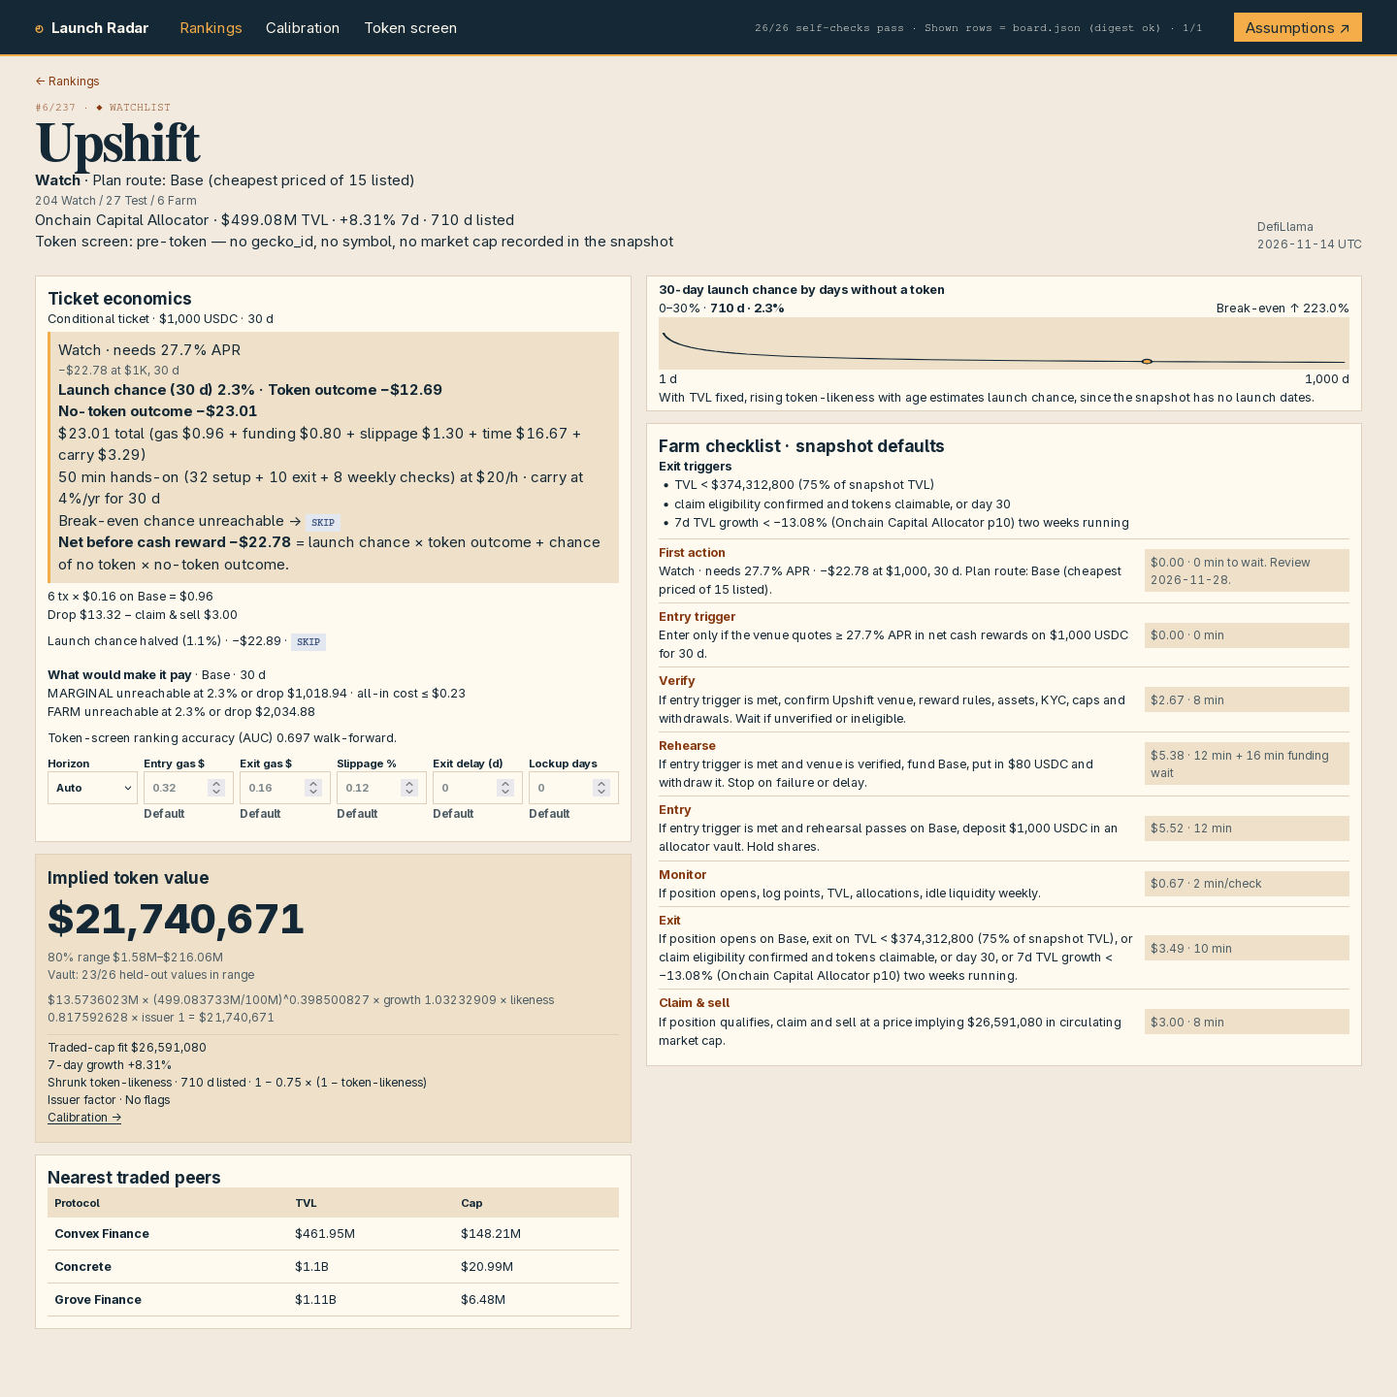
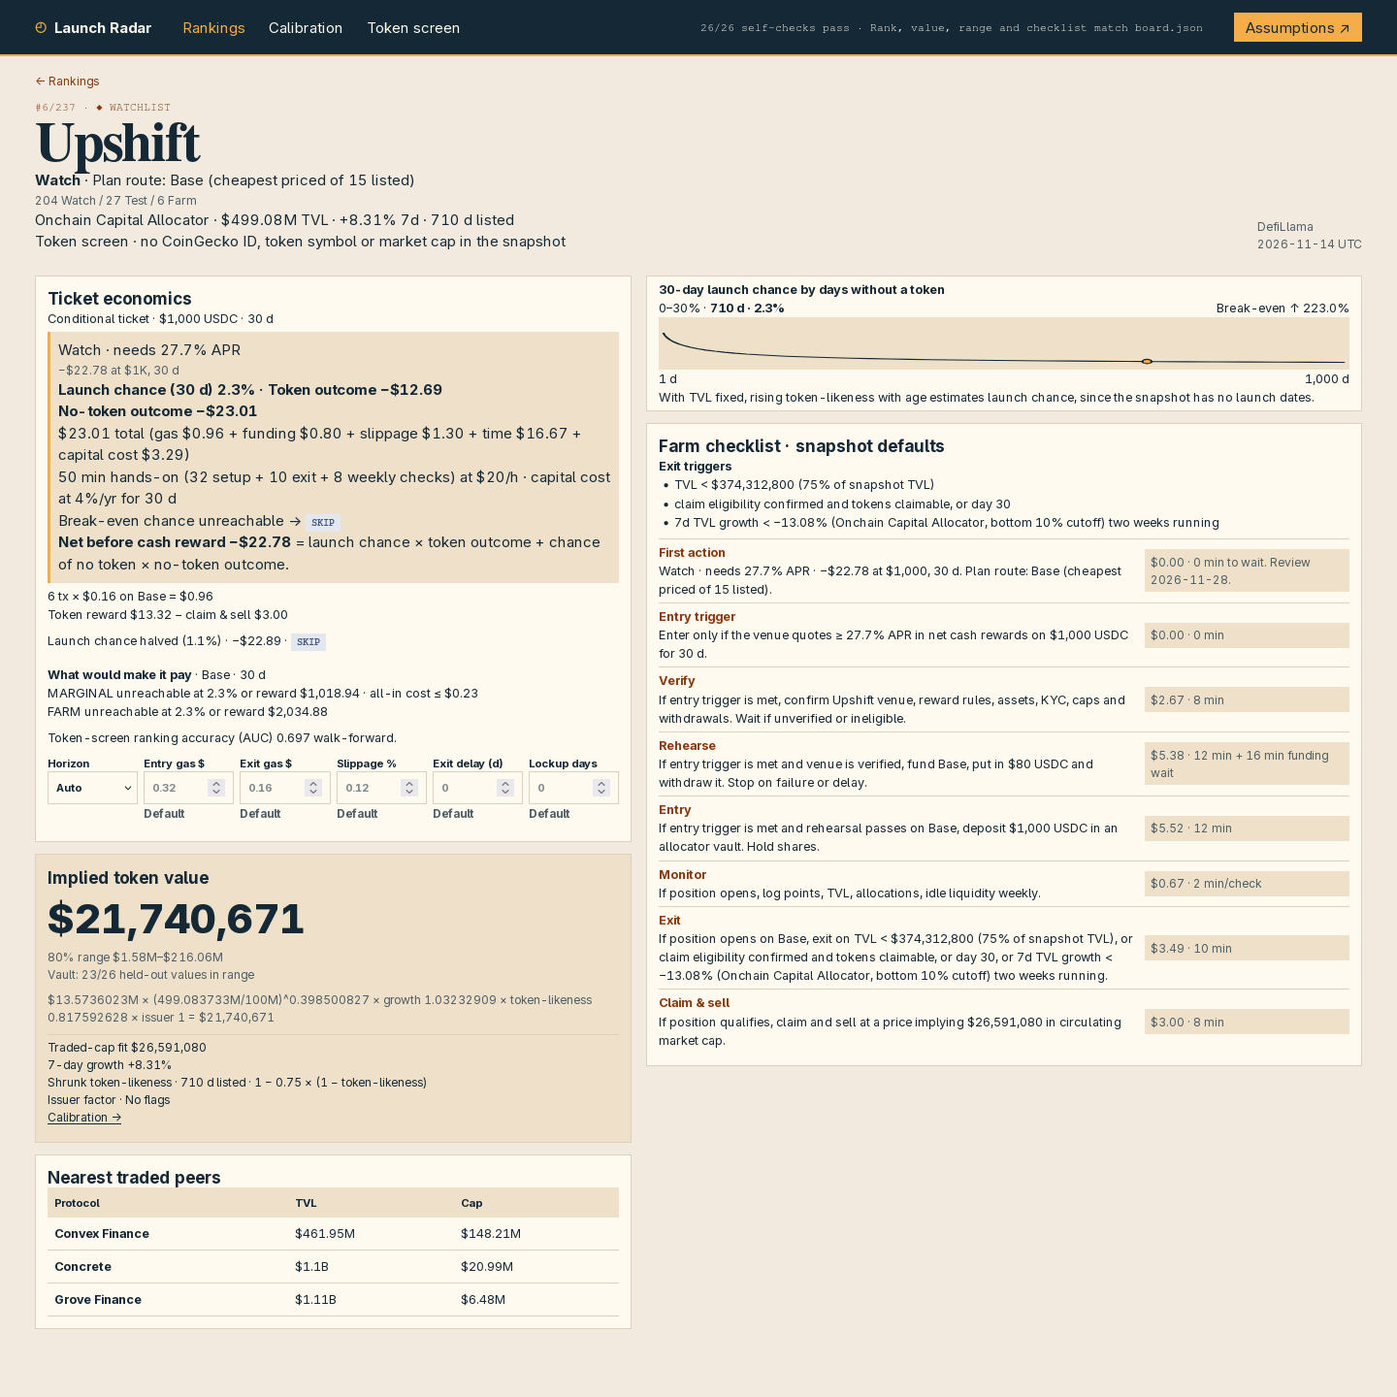
Plain-language labels, grid key and exact integrity strip

diff --git a/dashboard/app.js b/dashboard/app.js
@@ -6,8 +6,9 @@ const html=(xs,fn)=>xs.map(fn).join(""),view=$("#view"),check=$("#checks"),
 	text=sel=>$(sel).textContent,put=(sel,markup)=>$(sel).innerHTML=markup,
 	status=id=>`<small id=${id} role=status></small>`,
 	results=selfChecks(model,snap,boardDigest),
-	passed=count(results,c=>c.pass),allPass=passed===results.length,selfCount=`${passed}/${results.length}`,
+	passed=count(results,c=>c.pass),allPass=passed===results.length,selfLine=`${passed}/${results.length} self-checks pass`,
 	signed=s=>s.replace(/(^|[\s$(,])-(?=\$?\d)/g,"$1−"),
+	plain=s=>signed(s).replace(/ p10\)(?= two weeks)/g,", bottom 10% cutoff)").replace(" + carry "," + capital cost "),
 	money=n=>signed(costUsd(n)),short=new Intl.NumberFormat("en-US",{style:"currency",currency:"USD",
 		notation:"compact",maximumFractionDigits:2}).format,usd=whole
 const dash="—",mult=n=>n==null?dash:n.toFixed(3)+"×",
@@ -15,14 +16,15 @@ const dash="—",mult=n=>n==null?dash:n.toFixed(3)+"×",
 	net=farmNet,net2=n=>net(+n.toFixed(2)),
 	esc=value=>String(value??"").replace(/[&<>"']/g,c=>({"&":"&amp;","<":"&lt;",">":"&gt;",'"':"&quot;","'":"&#39;"})[c])
 const {rows:rs,recs,counts:ns,verdicts,value,odds,assumptions:setup,board:{rows:board}}=model,
-	hashOk=digest(board)===boardDigest&&digest(manifest)===digest(exportManifest(board)),
+	hashOk=digest(board)===boardDigest&&same(manifest,exportManifest(board)),
+	watchExported=count(snap.watchlist,slug=>manifest?.some(([,s])=>s===slug)),
 	{parameters:{horizons,riskFreeRate,hourlyUsd}}=setup,
 	auc=k=>odds.validation[k].auc?.toFixed(3)??dash
 const aucLabel="Token-screen ranking accuracy (AUC)",
 	aucLine=`${aucLabel} ${auc("walk")} walk-forward`,
 	{headline,ablation,candidates,form,weight,ranges:{label,hits,n:bandN,coverage}}=value,
-	bandName=label==null?"Uncalibrated range":`${bandPct}% range`,
-	groups=[["traded","traded"],["setAside","set aside"],["recorded","token, no cap"],["ranked","ranked"]],
+	bandName=bandN?`${bandPct}% range`:"Uncalibrated range",
+	groups={traded:"traded",setAside:"set aside",recorded:"token, no cap",ranked:"ranked"},
 	choices=items=>["",...unique(items).sort()]
 const grades=keys(verdicts),actions=actionCounts(verdicts),
 	stressCases=[["doubleCost","2× cost"],["halfShare","Reward share halved"]],
@@ -78,8 +80,8 @@ const valueStats=`<p class=nested>Form chosen inside training only</p>
 <p class=coverage>${bandN?`${bandName} · Family holdout coverage ${label}% (${hits}/${bandN})`:"Range coverage unavailable"}</p>`
 const dropPairs=entries(outerTerms).map(([k,label])=>[label,...schemes.map(s=>mult(ablation[k][s].miss))]),
 	dropLine=`<p class=drop>Held out without · ${dropPairs.map(([label,...miss])=>label+" "+miss.join("/")).join(" · ")}</p>`
-const tokenLinks=(st,separator="")=>groups.map(([k,lbl])=>
-	`<a href="${href("tokens",st,k)}"${st.route==="tokens"&&st.slug===k?' aria-current="page"':""}><b>${ns[k]}</b> ${lbl}</a>`).join(separator),
+const tokenLinks=(st,separator="")=>entries(groups).map(([k,label])=>
+	`<a href="${href("tokens",st,k)}"${st.route==="tokens"&&st.slug===k?" aria-current=page":""}><b>${ns[k]}</b> ${label}</a>`).join(separator),
 	searchBox=st=>`<label>Search<input id=search type=search value="${esc(st.q)}" autocomplete=off></label>`,
 	matches=(p,q)=>`${p.name} ${p.slug}`.toLowerCase().includes(q.trim().toLowerCase())
 const kpis=st=>`<section class=kpis>
@@ -87,7 +89,7 @@ ${card("Snapshot",`<strong>${ns.total}</strong>
 <div class=groups id=token-groups></div>`)}
 ${card(missTitle,valueStats+dropLine+calLink(st))}
 ${card(aucLabel,`<div class=readings>${html([["loo","Leave-one-out"],["walk",outerTests.walk]],([k,lbl])=>
-	`<div><strong>${auc(k)}</strong><span>${lbl}</span></div>`)}</div><p>TVL and listing age vs traded peers`)}
+	`<div><strong>${auc(k)}</strong><span>${lbl}</span></div>`)}</div><p>Token-likeness uses TVL and listing age`)}
 ${card("First actions",`<b id=cover-counts>${actions}</b><p>Floor ${short(snap.floor_usd)}`)}</section>`
 const option=(v,lbl,selected)=>`<option value="${esc(v)}"${selected?" selected":""}>${esc(lbl)}`,
 	select=(lbl,k,opts)=>`<label>${lbl}<select name=${k}>${opts}</select></label>`,
@@ -96,21 +98,21 @@ const option=(v,lbl,selected)=>`<option value="${esc(v)}"${selected?" selected":
 function plans(st,rows){
 	const best=rows.filter(p=>p.plan.capital).sort((a,b)=>b.plan.net-a.plan.net).slice(0,5)
 	return inset(`Top funded plans <small id=rail-counts>${actions}</small>`,
-		(best.length?html(best,p=>{
+		html(best,p=>{
 			const f=p.plan
 			return`<div><b class=pos>${net(f.net)} net</b>${pLink(p,st)}
 <small class=action>${firstAction(f)}</small><small class=plan-route>${esc(f.route)}</small>
 <small class=plan-time>${f.mins} min hands-on</small><small class=plan-cost>${money(f.cost)} total cost</small></div>`
-		}):"<p>No funded plans in these results.")," plans")
+		})||"<p>No funded plans."," plans")
 }
 const boardView=st=>`${intro("Pre-token rankings","30–365 d farms")}
-<div class=integrity role=group aria-label=Integrity></div>
+<div class=integrity role=group aria-label=Checks></div>
 ${kpis(st)}
 <div class=board><section class=panel>
-<div class=bar><h2>Protocols</h2>${status("compare-count")}${status("shown")}</div>
+<div class=bar><h2>Protocols</h2><small class=grid-key>Amber bar shows value range · Tick shows estimate · <b class=watch>◆</b> Watchlist</small>${status("compare-count")}${status("shown")}</div>
 <div class=filters>${searchBox(st)}
 ${html(filters,spec=>filter(spec,st))}
-<small class=chain-note>Listed on = chains in the snapshot; plan route = cheapest priced chain among them</small></div>
+<small class=chain-note>Plan route uses the cheapest priced listed chain.</small></div>
 <div id=active-filters></div><div id=compare></div><div id=results></div>
 </section><aside class=rail id=plans></aside></div>`
 function filtered({scope,family,chain,verdict,flag,tvl,q,sort,dir}){
@@ -127,10 +129,11 @@ function filtered({scope,family,chain,verdict,flag,tvl,q,sort,dir}){
 const valRange=r=>`${bandName} ${r[bandPct].map(short).join("–")}`,
 	ends=rs.flatMap(({score,ranges})=>[score,...ranges[bandPct]]),
 	logMin=log(min(...ends)),logSpan=log(max(...ends))-logMin||1,
-	barX=n=>1+40*(log(n)-logMin)/logSpan
+	barX=n=>1+40*(log(n)-logMin)/logSpan,
+	clipped=r=>r.growth!==(r.change_7d??0)
 function equation(r,format){
 	const [base,tvl,slope,...terms]=r.equation
-	return`<small class=equation>$${base}M × (${tvl}M/${refM}M)^${slope}${html(terms,([label,n])=>` × ${label} ${n}`)} = ${format(r.score)}</small>`
+	return`<small class=equation>$${base}M × (${tvl}M/${refM}M)^${slope}${html(terms,([label,n])=>` × ${label} ${n}${label==="growth"&&clipped(r)?" (clipped)":""}`)} = ${format(r.score)}</small>`
 }
 function rankRow(r,st){
 	const {slug,score,tokenOdds,ranges,rank,plan:fp,watchlist,tvl_usd,change_7d}=r,
@@ -149,23 +152,22 @@ function exported(rank,slug,value,verdict,format){
 	const [n,s,v,a]=manifest?.[rank-1]??[]
 	return n===rank&&s===slug&&format(v)===value&&a===verdict
 }
-const rowProof=(hits,total,pass)=>!total?"No rows to verify":
-	`${pass?"Shown rows = board.json (digest ok)":"Export check failed"} · ${hits}/${total}`
 function rowCheck(rows,st){
-	const trs=$$("#results tbody tr"),
-		total=rows.length,sorted=trs.length===total&&$(`[aria-sort=${ariaSort(st)}] #sort-${st.sort}`)
-			&&trs.every((tr,i)=>tr.dataset.slug===rows[i].slug)
-	const shown=count(trs,tr=>{
-		const [rank,,value,odds]=tr.cells,n=+rank.textContent,p=rs[n-1].plan,cell=tr.lastElementChild
-		return exported(n,tr.dataset.slug,value.firstElementChild.textContent,tr.querySelector(".badge")?.textContent,short)
+	const trs=$$("#results tbody tr"),total=rows.length
+	const shown=count(trs,(tr,i)=>{
+		const [rank,,value,odds]=tr.cells,n=+rank.textContent,{slug}=tr.dataset,cell=tr.lastElementChild,r=rows[i]
+		if(slug!==r?.slug) return false
+		const p=r.plan
+		return exported(n,slug,value.firstElementChild.textContent,tr.querySelector(".badge")?.textContent,short)
 			&&odds.textContent===pct(board[n-1].token_odds,1)
 			&&(p.trial?cell.innerHTML===watch(p.trial):cell.querySelector("b").textContent===net(p.net))
 	})
-	const pass=!!(hashOk&&sorted&&shown===total&&text("#cover-counts")===text("#rail-counts"))
+	const pass=hashOk&&shown===total&&trs.length===total&&$(`#sort-${st.sort}`)?.parentNode.ariaSort===ariaSort(st)
+		&&text("#cover-counts")===text("#rail-counts")
 	put(".integrity",html([
-		[total?pass:null,rowProof(shown,total,pass)],
-		[ns.watchCovered===ns.watchTotal,`Export watchlist ${ns.watchCovered}/${ns.watchTotal}`],
-		[allPass,selfCount+" checks"]
+		[total?pass:null,pass?`${shown}/${total} ranks and values match board.json`:total?"Row check failed":"No rows to verify"],
+		[hashOk&&watchExported===ns.watchTotal,`${watchExported}/${ns.watchTotal} watchlist rows exported`],
+		[allPass,selfLine]
 	],([ok,lbl])=>`<span class=chip data-pass=${ok}>${ok==null?"":ok?"✓ ":"✗ "}${lbl}</span>`))
 }
 function draw(st){
@@ -196,12 +198,12 @@ function compare(st){
 	const rows=[...picked].map(rank=>rs[rank-1]),size=rows.length
 	$("#compare-count").textContent=`Compare ${size}/3`
 	put("#compare",size?facts(["Compare",...rows.map(r=>pLink(r,st)+pick(r))],[
-		[cols.value[0],...rows.map(r=>usd(r.score))],
-		["First action",...rows.map(r=>firstAction(r.plan))],
-		[cols.verdict[0],...rows.map(r=>badge(r.plan.verdict))],
-		[netTitle,...rows.map(({plan:p})=>p.trial?watch(p.trial):net(p.net))],
-		["Time / cost",...rows.map(({plan:p})=>p.trial?dash:`${p.mins} min hands-on · ${money(p.cost)}`)]
-	]):"")
+		[cols.value[0],r=>usd(r.score)],
+		["First action",r=>firstAction(r.plan)],
+		[cols.verdict[0],r=>badge(r.plan.verdict)],
+		[netTitle,({plan:p})=>p.trial?watch(p.trial):net(p.net)],
+		["Time / cost",({plan:p})=>p.trial?dash:`${p.mins} min hands-on · ${money(p.cost)}`]
+	].map(([label,read])=>[label,...rows.map(read)])):"")
 	for(const box of $$("input[name=compare]")){
 		box.checked=picked.has(+box.value)
 		box.disabled=size===3&&!box.checked
@@ -209,7 +211,7 @@ function compare(st){
 }
 function sources(r,st){
 	return`<div class=sources><p>Traded-cap fit ${usd(r.launchCap)}
-<p>7-day growth ${chg(r.change_7d)}${r.growth!==r.change_7d?` (uses ${chg(r.growth)})`:""}
+<p>7-day growth ${chg(r.change_7d)}${clipped(r)?` (uses ${chg(r.growth)})`:""}
 <p>${forms[form]} · ${r.ageDays==null?"median age":days(r)+" d listed"}${form==="shrink"?` · 1 − ${weight} × (1 − token-likeness)`:""}
 <p>Issuer factor · ${r.flags.map(esc).join(" · ")||"No flags"}
 <p>${calLink(st)}</div>`
@@ -226,19 +228,19 @@ function flows(fp,quote,action,edited){
 		{chain,tx,quote:base}=fp,name=esc(chain.name),gasLabel=quote.entryGas===base.entryGas&&quote.exitGas===base.exitGas
 			?`${tx} tx × ${money(chain.gas)}`:"Quoted gas",
 		half=priceFarm(fp,capital,{quote,horizon,q:q/2}),pay=targetsFor(result,quote),
-		[marginal,farm]=pay.targets.map(t=>`${needs(t.odds,q)} or drop ${targetMoney(t.drop)}`)
+		[marginal,farm]=pay.targets.map(t=>`${needs(t.odds,q)} or reward ${targetMoney(t.drop)}`)
 	return`${edited?`<p class=quote-action>With edited inputs · ${actionLine(action)}`:""}
 ${trial?`<p class=conditional>Conditional ticket · ${esc(fp.ticketFor(capital))} · ${horizon} d`:""}
 <div class=decision>
 ${trial?`<div class=watch-terms>${watch(trial)}</div>`:""}
 <p><b>Launch chance (${horizon} d) ${chance(q)} · Token outcome ${net2(tokenNet)}</b>
 <p><b>No-token outcome ${net2(noToken)}</b>
-<p>${farmCost(result)}
-<p>${farmTime(result)} at ${usd(hourlyUsd)}/h · carry at ${pct(riskFreeRate,0)}/yr for ${hold} d
+<p>${plain(farmCost(result))}
+<p>${farmTime(result)} at ${usd(hourlyUsd)}/h · capital cost at ${pct(riskFreeRate,0)}/yr for ${hold} d
 <p>Break-even chance ${breakEven(pStar)} → ${badge(verdict)}
 <p><b>${trial?"Net before cash reward":netTitle} ${net2(gain)}</b> = launch chance × token outcome + chance of no token × no-token outcome.</div>
 <p class=gas>${gasLabel} on ${name} = ${money(gas)}
-<p>Drop ${money(drop)} − claim &amp; sell ${money(claimCost)}
+<p>Token reward ${money(drop)} − claim &amp; sell ${money(claimCost)}
 <p class=half-q>Launch chance halved (${chance(q/2)}) · ${net(half.net)} · ${badge(half.verdict)}
 <p class=pay><b>What would make it pay</b> · ${name} · ${horizon} d${fp.flagged?" · FARM needs clear flags":""}
 <br>MARGINAL ${marginal} · all-in cost ≤ ${targetMoney(pay.maxCost)}<br>FARM ${farm}`
@@ -254,8 +256,7 @@ ${html(fields,([k,lbl,max=1e6])=>`<label>${lbl}
 <small>Default</small></label>`)}
 </form>`," quote")
 function chart(r,p){
-	const {horizon:h,pStar}=p.trial??p,{age,end,points}=series(odds.fit,r,h),
-		q=points.find(([d])=>d===age)[1],
+	const {horizon:h,pStar,q}=p.trial??p,{age,end,points}=series(odds.fit,r,h),
 		top=ceil(10*max(.1,...points.map(([,p])=>p)))/10,
 		x=d=>(2+296*(d-1)/(end-1)).toFixed(2),y=p=>(44-40*p/top).toFixed(2)
 	return`<h3>${h}-day launch chance by days without a token</h3>
@@ -269,15 +270,15 @@ ${pStar!=null&&pStar<=top?`<path d="M2 ${y(pStar)}H298"/>`:""}
 <figcaption>${setup.timing}</figcaption>`
 }
 const tree=steps=>`<ol class=steps>${html(steps,([label,body,terms])=>
-		`<li><div><h3>${label}</h3><p>${esc(signed(body))}</div><small>${esc(terms)}</small>`)}</ol>`
+		`<li><div><h3>${label}</h3><p>${esc(plain(body))}</div><small>${esc(plain(terms))}</small>`)}</ol>`
 function detail(st,r){
 	const back=`<a class=back href="${href("board",st)}">← Rankings</a>`
 	if(!r) return back+intro("Unavailable")
 	const {plan:fp,ranges,edgePlans,family}=r,
 		kind=coverage[family]?family:"Other",band=coverage[kind]??{hits:0,n:0},
 		tokenLine=r.reason==="watch"?`watchlist exception — kept despite ${r.nameRule||r.category}`:
-			`pre-token — no gecko_id, no symbol, no ${r.mcap_usd==null?"":"positive "}market cap recorded in the snapshot`,
-		summary=`${rowName(r)} · ${short(r.tvl_usd)} TVL · ${chg(r.change_7d)} 7d · ${days(r)} d listed<br><span id=token-reason>Token screen: ${esc(tokenLine)}</span>`,
+			`no CoinGecko ID, token symbol or ${r.mcap_usd==null?"":"positive "}market cap in the snapshot`,
+		summary=`${rowName(r)} · ${short(r.tvl_usd)} TVL · ${chg(r.change_7d)} 7d · ${days(r)} d listed<br><span id=token-reason>Token screen · ${esc(tokenLine)}</span>`,
 		lbl=`<p class=kicker>#${r.rank}/${ns.ranked}${r.watchlist?" · ◆ Watchlist":""}`,
 		lead=`<p><b class=route>${actionLine(fp)}</b> · <span class=plan-route>${esc(fp.route)}</span>
 <small id=detail-counts>${actions}</small></p>`,
@@ -298,7 +299,7 @@ ${inset("Nearest traded peers",facts("Protocol|TVL|Cap",
 </div><div>
 <figure class="panel age">${chart(r,fp)}</figure>
 ${inset("Farm checklist · snapshot defaults",`${fp.capital?`<p class=range-net>${netTitle} ${edgePlans.map(p=>net(p.net)).join(" / ")} · ${flips.join(" · ")||`same verdict at both ends of ${bandName}`}`:""}
-<h3>Exit triggers</h3><ul class=exits>${html(fp.exits,s=>`<li>${esc(signed(s))}`)}</ul>${tree(fp.steps)}`)}
+<h3>Exit triggers</h3><ul class=exits>${html(fp.exits,s=>`<li>${esc(plain(s))}`)}</ul>${tree(fp.steps)}`)}
 ${fp.capital?inset("Same ticket · snapshot defaults",facts("Scenario|Verdict|Net",stressRows)," stress"):""}
 </div></div>`
 }
@@ -311,32 +312,31 @@ function calibration(){
 			...dropPairs.map(([label,...miss])=>["Without "+label+(label==="TVL"?" exponent":""),...miss])])
 	return`${intro("Trading-token calibration")}
 ${inset(missTitle,valueStats+`<p>Flat uses median training cap/TVL. Ranges use leave-one-out cap residuals.`)}
-${inset("Candidates scored on outer folds, for reference",scores," candidates")}
+${inset("Reference scores on outer folds",scores," candidates")}
 ${inset("Held-out median miss by omitted term",table," ablation")}
 ${inset(oddsTitle,`<p class=likeness>${aucLine}. ${setup.timing}`)}`
 }
-const tokens=st=>`${intro("Token screen","Pre-token means the snapshot records no token.")}
+const tokens=st=>`${intro("Token screen","Pre-token means no token recorded.")}
 <section class=panel><div class=bar><div id=token-groups></div>${status("shown")}</div>
 <div class=filters>${searchBox(st)}</div><div id=results></div></section>`
 function drawTokens(st){
-	const scope=statuses.includes(st.slug)?recs.filter(p=>p.status===st.slug):recs,
+	const scope=hasOwn(groups,st.slug)?recs.filter(p=>p.status===st.slug):recs,
 		rows=scope.filter(p=>matches(p,st.q)),field=v=>esc(v||dash)
 	put("#token-groups",`<a href="${href("tokens",st)}">All ${ns.total}</a> · `+tokenLinks(st," · "))
 	$("#shown").textContent=`${rows.length}/${scope.length} shown`
-	put("#results",rows.length?facts("Protocol|Reason|Market cap ($)|gecko_id|Symbol|Category|Name rule hit",
+	put("#results",rows.length?facts("Protocol|Reason|Market cap ($)|CoinGecko ID|Symbol|Category|Name rule hit",
 		rows.map(p=>[bySlug.has(p.slug)?pLink(p,st):esc(p.name),reasons[p.reason][1],esc(p.mcap_usd??dash),
 			field(p.gecko_id),field(p.symbol),field(p.category),field(p.nameRule)])):empty)
 }
 function detailCheck(){
 	const rank=parseInt(text(".kicker").slice(1)),saved=board[rank-1],
-		steps=$$(".steps li"),fp=rs[rank-1].plan
+		fp=rs[rank-1].plan,steps=$$(".steps li")
 	return hashOk&&exported(rank,$("#quote").dataset.slug,text(".amount"),fp.verdict,usd)
 		&&text(".route")===actionLine(fp)&&text("#detail-counts")===actions
 		&&text(".value-range")===valRange(saved.implied_value_ranges_usd)
-		&&steps.length===saved.farm_steps.length
-		&&steps.every((li,i)=>li.querySelector("p").textContent+" "+li.querySelector("small").textContent===signed(saved.farm_steps[i]))
+		&&same(steps.map(li=>li.querySelector("p").textContent+" "+li.querySelector("small").textContent),saved.farm_steps.map(plain))
 }
-const pages={board:boardView,tokens,calibration,detail}
+const pages={board:boardView,tokens,calibration,detail},draws={board:draw,tokens:drawTokens}
 let lastRoute
 function render(){
 	const st=readRoute(),{route,slug}=st,focus=document.activeElement?.id,
@@ -344,19 +344,18 @@ function render(){
 	nav(st)
 	view.innerHTML=pages[route](st,r)
 	document.title=text("h1")+" · Launch Radar"
-	if(route==="board") draw(st)
-	else if(route==="tokens") drawTokens(st)
+	draws[route]?.(st)
 	const match=r&&detailCheck()
 	check.hidden=route==="board"
-	check.textContent=selfCount+" self-checks pass"
-	if(route==="detail") check.append(` · ${rowProof(+!!match,+!!r,match)}`)
+	check.textContent=selfLine
+	if(r) check.append(match?" · Rank, value, range and checklist match board.json":" · Row check failed")
 	check.dataset.pass=allPass&&(route!=="detail"||!!match)
 	document.getElementById(focus)?.focus()
 	if(lastRoute!==route) window.scrollTo(0,0)
 	lastRoute=route
 }
 
-check.title=results.map(({name,pass})=>`${name}: ${pass?"pass":"fail"}`).join("\n")
+check.title=results.map(c=>(c.pass?"✓ ":"✗ ")+c.name).join("\n")
 put(".drawer",`<ul>${html(setup.notes,s=>`<li>${esc(s)}`)}</ul>`)
 $("#open").onclick=()=>$("#assumptions").showModal()
 view.oninput=({target:el})=>{
@@ -364,7 +363,7 @@ view.oninput=({target:el})=>{
 		const st={...readRoute(),q:el.value}
 		history.replaceState(null,"",link(st.route,st,st.route==="tokens"?st.slug:""))
 		nav(st)
-		return (st.route==="tokens"?drawTokens:draw)(st)
+		return draws[st.route](st)
 	}
 	const form=el.form
 	if(form?.id!=="quote") return

diff --git a/dashboard/style.css b/dashboard/style.css
@@ -31,8 +31,8 @@ small{color:#4f5e66}
 .intro,.bar,.dialog-top,.age div{justify-content:space-between}
 .integrity,.readings{flex-wrap:wrap}
 .intro{align-items:end;margin:12px 0 24px}
-.integrity{gap:2px;margin:-17px 0 8px}
-.chip{padding:2px 1px;white-space:nowrap;font-size:.68rem}
+.integrity{gap:4px;margin:-17px 0 8px}
+.chip{padding:2px 6px}
 .back{margin-top:16px}
 .kpis,.groups,.board,.detail,.detail>div,.filters,.steps li,.quotes,.age{display:grid}
 .kpis{grid:auto/1fr 1.9fr 1fr .68fr;gap:12px;margin-bottom:8px}
@@ -43,12 +43,12 @@ small{color:#4f5e66}
 #token-groups a,.evidence{text-decoration:underline}
 #token-groups [aria-current]{font-weight:700}
 .readings,.board,.detail{gap:1rem}
-:not(strong)>small,.readings span,.back{display:block}
+small,.readings span,.back{display:block}
 .misses strong{font-size:1.4rem}
-small,.sources,.rail,.back,.kpi{font-size:.8rem}
+small,.sources,.rail,.back,.kpi,.chip{font-size:.8rem}
 .valuation,.decision,.steps small,thead,.rank,.range,.age svg{background:var(--wash)}
 .board,.detail{align-items:start}
-.board{grid:auto/1fr 290px}
+.board{grid:auto/1fr 280px}
 .detail>div{gap:12px}
 .bar{padding:12px 16px 8px}
 .filters{grid:auto/1.4fr repeat(6,1fr);padding:0 16px 8px}
@@ -59,13 +59,13 @@ small,.sources,.rail,.back,.kpi{font-size:.8rem}
 }
 .scroll{overflow:auto}
 #active-filters:not(:empty){display:flex;align-items:center;flex-wrap:wrap;gap:6px;margin:0 16px 8px}
-#active-filters .chip{padding:2px 8px;background:var(--wash);font-size:.8rem;white-space:normal}
+#active-filters .chip{padding:2px 8px;background:var(--wash)}
 #results .scroll{max-height:675px}
 table{width:100%;border-collapse:collapse}
 th{text-align:left}
 thead{font-size:.75rem}
-.ranks{min-width:1020px;font-size:.88rem;line-height:1.15}
 .ranks{
+	min-width:1020px;font-size:.88rem;line-height:1.15;
 	td,th{padding:2px 4px}
 	tbody :is(td,th){vertical-align:top;padding-bottom:17px}
 	td,small{white-space:nowrap}

diff --git a/dashboard/model.js b/dashboard/model.js
@@ -198,7 +198,7 @@ function accum({matrix,target},x,residual,weight=1){
 	}
 }
 
-function fitValue(pts,form="current",omit){
+function fitValue(pts,form,omit){
 	const age=form==="direct"||form==="pooled"?medianAge(pts):0,
 		families=form==="pooled"?unique(pts.map(p=>p.family)):[],
 		shrink=sqrt(pts.length),fit={age,families,omit},
@@ -365,7 +365,7 @@ const refM=A.refTvl/1e6,scoreEq=([base,tvl,slope,...terms])=>max(1,round(terms.r
 function equationFor(fit,p){
 	const [intercept,slope]=fit.coefs,terms=[
 		["growth",exp((p.size-p.rawSize)*slope)],
-		[fit.age?"age":"likeness",fit.age?exp(dot(capInputs(fit,p).slice(2),fit.coefs.slice(2))):p.valueAge],
+		[fit.age?"age":"token-likeness",fit.age?exp(dot(capInputs(fit,p).slice(2),fit.coefs.slice(2))):p.valueAge],
 		["issuer",p.haircut]]
 	let shown
 	for(let digits=4;digits<=17;digits++){
